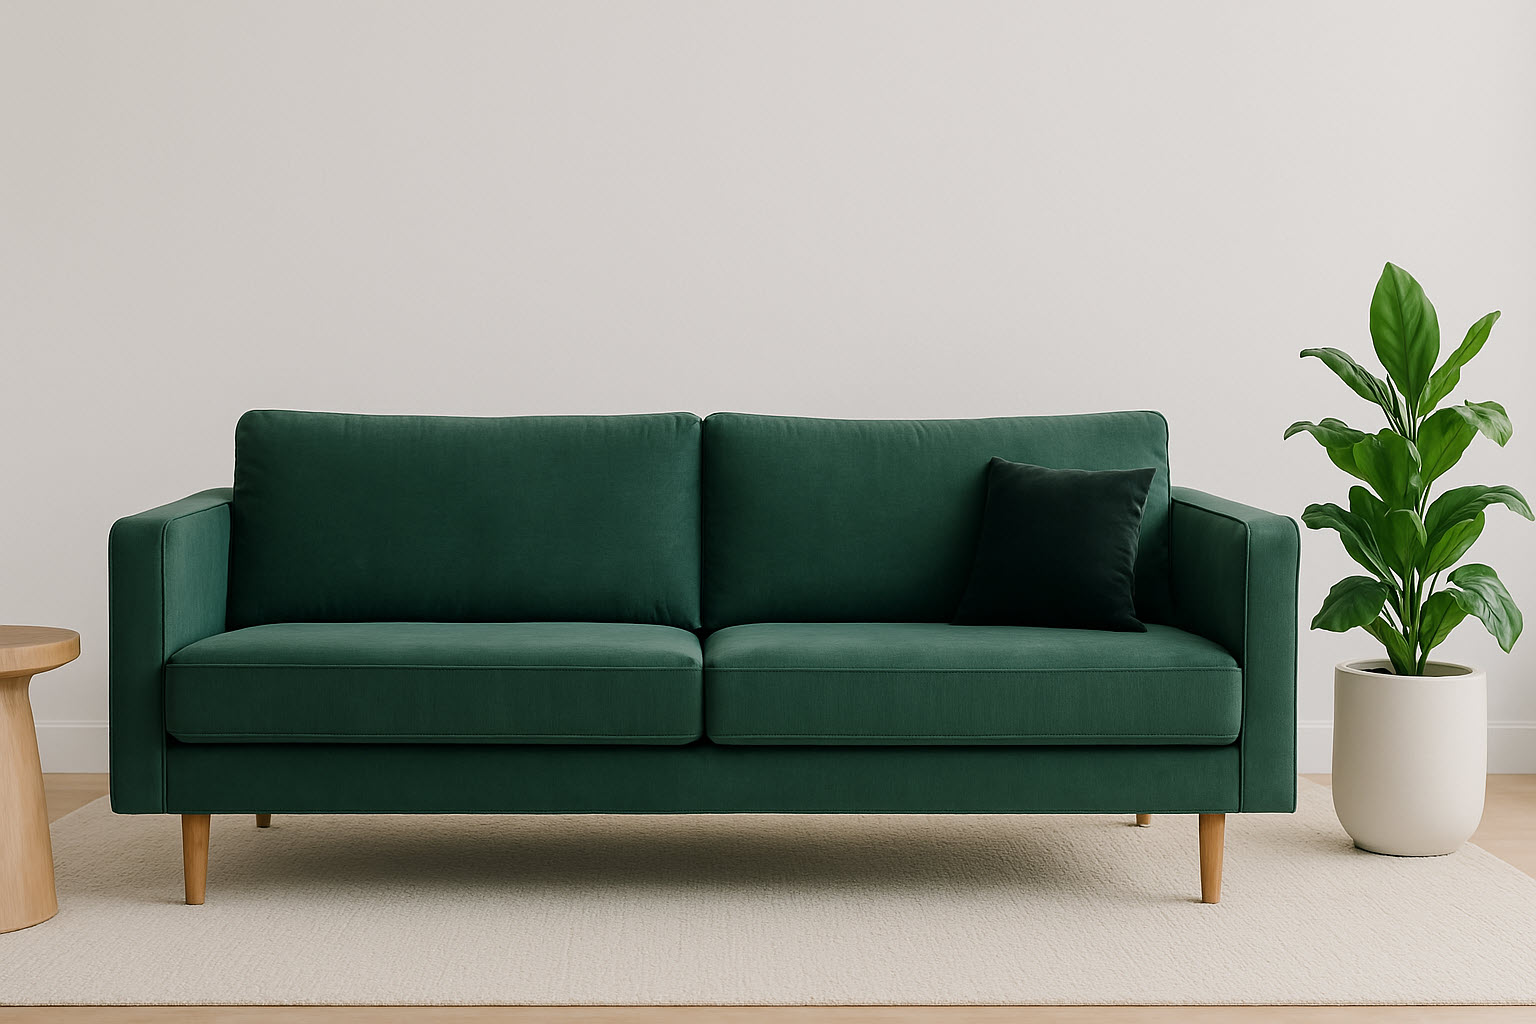
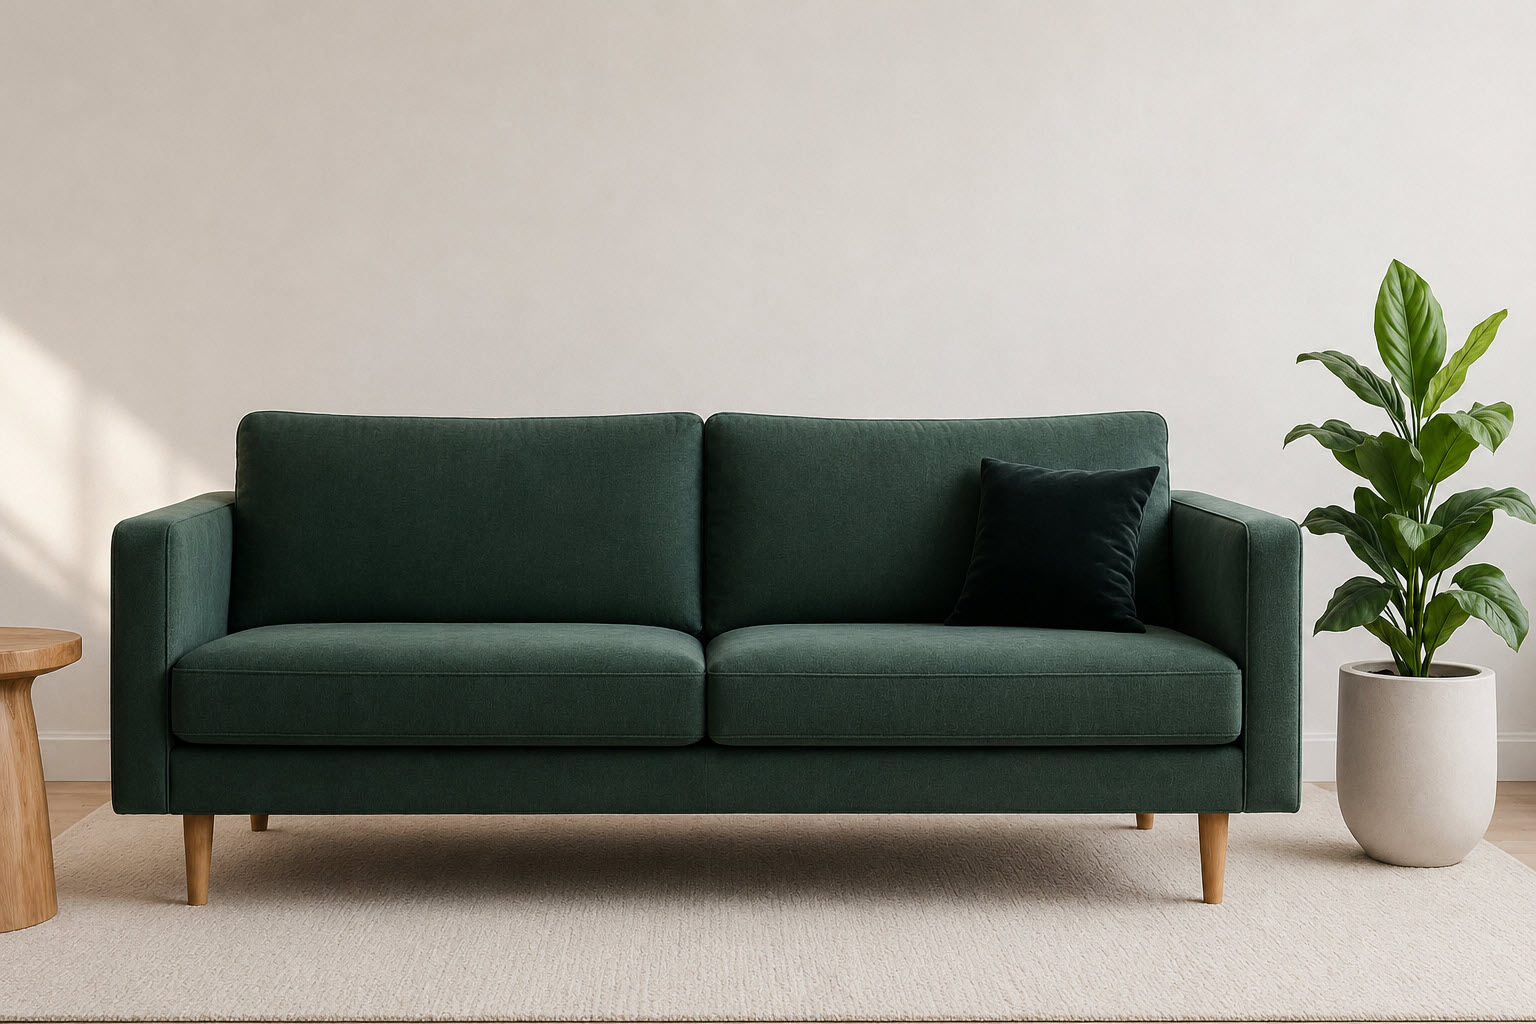
Add storefront gradient overlay and map border

diff --git a/styles.css b/styles.css
@@ -533,9 +533,19 @@ nav a.active {
   box-shadow: 0 0.8rem 2rem rgba(30, 32, 30, 0.08);
 }
 
+.storefront::after {
+  content: "";
+  position: absolute;
+  inset: 0;
+  background: linear-gradient(rgba(9, 20, 17, 0.04), rgba(9, 20, 17, 0.2));
+  pointer-events: none;
+}
+
 .map {
   overflow: hidden;
+  border: 1px solid rgba(46, 92, 80, 0.16);
   border-radius: 8px;
+  background: #f2eee7;
   box-shadow: 0 0.8rem 2rem rgba(30, 32, 30, 0.08);
 }
 